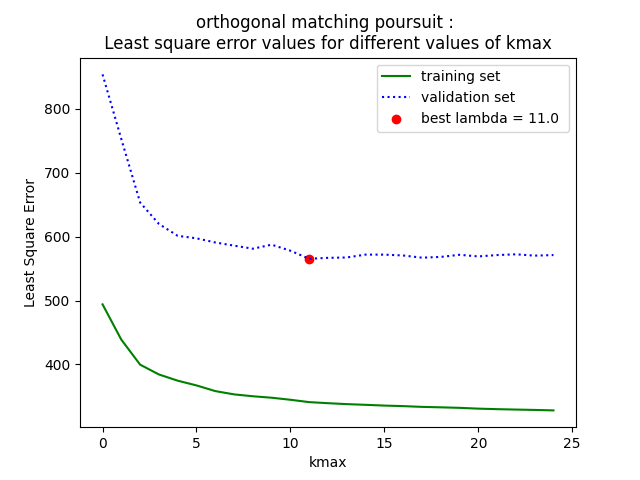
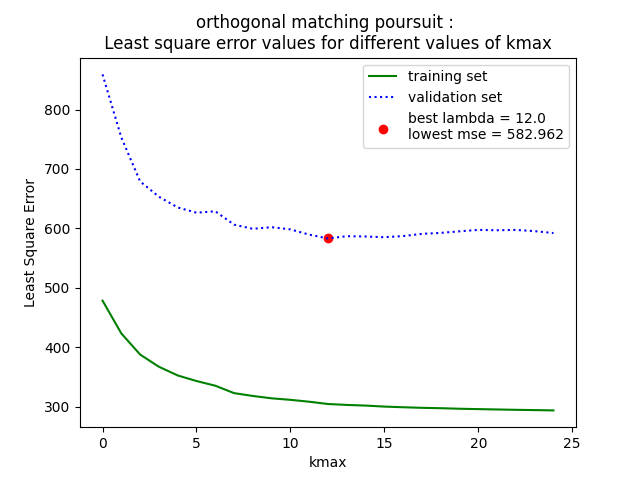
refactoring 5

diff --git a/plot_exp_training_size.py b/plot_exp_training_size.py
@@ -16,9 +16,8 @@ from exp_hyperparam import learn_all_with_MP
 from exp_hyperparam import learn_all_with_OMP
 
 
-# Load performance data
+# Load algo performances' data
 npz_ = np.load("exp_training_size_results.npz")
-print(npz_)
 N = npz_["N"]
 train_error_mx = npz_["train_error_mx"]
 valid_error_mx = npz_["valid_error_mx"]
@@ -32,20 +31,23 @@ fig1 = plt.figure()
 ax1 = plt.axes()
 for i in range(len(methods_name)):
     ax1.loglog(N, valid_error_mx[:, i], color=colors[i],
-            linestyle="-", label=methods_name[i])
+            linestyle="-", label=f"{methods_name[i]} (valid)")
     if methods_name[i] == "least squares":
+        # trick to see the dashed line on the x axis when low N
         train_error_mx[:, i] = np.round(train_error_mx[:, i], 0) + 1
     ax1.margins(x=0, y=0)
     ax1.set_yticks(np.arange(11) - 1)
     ax1.loglog(N, train_error_mx[:, i], color=colors[i],
-        linestyle="dotted", label=methods_name[i])
+        linestyle="dotted", label=f"{methods_name[i]} (train)")
 
 ax1.set_xlabel("Sample size (N)")
-ax1.set_ylabel("Error (MSE)")
+ax1.set_ylabel("Loss function (MSE)")
 ax1.set_title("Performance of different linear regression algorithms"
-             + "\n depending on the sample size of the data set")
+              + "\n when fiting the training set and the validation set"
+              + "\n according to the sample size")
 ax1.legend(loc = "upper right")
-plt.savefig("figures/plot_exp_training_size_mse.png")
+plt.tight_layout()
+plt.savefig("figures/plot_exp_training_and_validation_size_mse.png")
 
 # time spent by each algo to fit train set depending on the dataset size
 fig2 = plt.figure()
@@ -57,15 +59,14 @@ for i in range(len(methods_name)):
 ax2.set_xlabel("Sample size (N)")
 ax2.set_ylabel("Time (s)")
 ax2.set_title("Time spent by each linear regression algorithm"
-             + "to fit the training data set"
-             + "\n depending on the sample size of the data set")
+             + " to fit the training data set"
+             + "\n according to the sample size")
 ax2.legend(loc = "upper right")
-plt.savefig("figures/plot_exp_training_size_time.png")
+plt.savefig("figures/plot_exp_training_and_validation_size_time.png")
 
 
 # 10.
-# afficher les performance de prediction de tous les algorithms
-# en fonction de la taille du training set
+# display performances of all algorithms according to sample size
 
 # load data
 X_labeled, y_labeled, X_unlabeled = load_data(
@@ -78,7 +79,7 @@ X_train_X_valid1, y_train_y_valid1, X_valid2, y_valid2 = split_data(
 N = np.array([2**i for i in np.arange(6,11+1)])
 
 # Iteration
-error_mx = np.zeros((len(N), 6))
+error_mx = np.zeros((len(N), 7))
 for i,n in enumerate(N):
     # reduce size of S_train depending on N
     S_train_X, S_train_y = X_train_X_valid1[0:n, :], y_train_y_valid1[0:n]
@@ -87,54 +88,59 @@ for i,n in enumerate(N):
     ridge = learn_all_with_RIDGE(S_train_X, S_train_y)
     ridge.fit(S_train_X, S_train_y)
     y_hat_ridge = ridge.predict(X_valid2)
-    lse_ridge = np.linalg.norm(y_hat_ridge - y_valid2, ord=2)
+    mse_ridge = np.mean(np.square(y_hat_ridge - y_valid2))
     
     # Matching Poursuit
     mp = learn_all_with_MP(S_train_X, S_train_y)
     mp.fit(S_train_X, S_train_y)
     y_hat_mp = mp.predict(X_valid2)
-    lse_mp = np.linalg.norm(y_hat_mp - y_valid2, ord=2)
+    mse_mp = np.mean(np.square(y_hat_mp - y_valid2))
     
     # Orthogonal Matching Poursuit
     omp = learn_all_with_OMP(S_train_X, S_train_y)
     omp.fit(S_train_X, S_train_y)
     y_hat_omp = omp.predict(X_valid2)
-    lse_omp = np.linalg.norm(y_hat_omp - y_valid2, ord=2)
+    mse_omp = np.mean(np.square(y_hat_omp - y_valid2))
     
     # Linear Regression Majority 
     maj = LinearRegressionMajority()
     maj.fit(S_train_X, S_train_y)
     y_hat_maj = maj.predict(X_valid2)
-    lse_maj = np.linalg.norm(y_hat_maj - y_valid2, ord=2)
+    mse_maj = np.mean(np.square(y_hat_maj - y_valid2))
 
     # Linear Regression Mean
     mean_ = LinearRegressionMean()
     mean_.fit(S_train_X, S_train_y)
     y_hat_mean = mean_.predict(X_valid2)
-    lse_mean = np.linalg.norm(y_hat_mean - y_valid2, ord=2)
+    mse_mean = np.mean(np.square(y_hat_mean - y_valid2))
 
     # Linear Regression Median
     median_ = LinearRegressionMedian()
     median_.fit(S_train_X, S_train_y)
     y_hat_median = median_.predict(X_valid2)
-    lse_median = np.linalg.norm(y_hat_median - y_valid2, ord=2)
+    mse_median = np.mean(np.square(y_hat_median - y_valid2))
+
+    # Linear Regression Least Squares 
+    ls = LinearRegressionLeastSquares()
+    ls.fit(S_train_X, S_train_y)
+    y_hat_ls = ls.predict(X_valid2)
+    mse_ls = np.mean(np.square(y_hat_ls - y_valid2))
 
     # save results
-    error_mx[i, :] = [lse_ridge, lse_mp, lse_omp,
-                      lse_maj, lse_mean, lse_median]
-
-print(np.round(error_mx, 0))
+    error_mx[i, :] = [mse_ridge, mse_mp, mse_omp, mse_maj,
+                      mse_mean, mse_median, mse_ls]
 
 fig = plt.figure()
 ax = plt.axes()
-method = ["ridge", "mp", "omp", "maj", "mean", "median"]
-colors = ["b", "g", "r", "c", "m", "k"]
+method = ["ridge", "mp", "omp", "maj", "mean", "median", "ls"]
+colors = ["b", "g", "r", "c", "m", "k", "y"]
 for i in range(len(method)):
-    ax.plot(N, error_mx[:, i], color=colors[i], linestyle="-", label=method[i])
+    ax.loglog(N, error_mx[:, i], color=colors[i], linestyle="-", label=method[i])
 plt.legend(loc="upper right")
-plt.xlabel("sample size (N)")
-plt.ylabel("Least Square Error")
-plt.title("Performace of algorithms \n depending on the sample size")
+plt.xlabel("Sample size (N)")
+plt.ylabel("Loss function (MSE)")
+plt.title("Performace of algorithms when predicting the valid2 set"
+          + "\n depending on the sample size")
 plt.axvline(500, color = 'r', linestyle = ':', label="N=500")    
 plt.savefig("figures/plot_exp_training_size.png")
 
@@ -142,8 +148,10 @@ plt.savefig("figures/plot_exp_training_size.png")
 # Part 10.2
 
 
-def learn_best_predictor_and_predict_test_data(X, y, learn_all_with_ALGO, X_unlabeled):
-    """Learn the best model and predict the test data
+def learn_best_predictor_and_predict_test_data(
+    X, y, learn_all_with_ALGO, X_unlabeled, file_path):
+    """Learn the best model and predict the unlabeled test data.
+    The result is automatically saved as an .npy file
     
     -------
     Parameters
@@ -156,9 +164,12 @@ def learn_best_predictor_and_predict_test_data(X, y, learn_all_with_ALGO, X_unla
         the chosen algorithm
     X_unlabeled: nd.array[n2, d2]
         Unlabeled data set that want to labelise
+    file_path: str
+        File name, path and file format in a unique str.
     -------
     Returns
-    
+    .npy: file
+        Results of algorithms performances saved into a .npy file.
     """
     
     # partitionne les donnes etiquetes en train (n=500) et valid2
@@ -173,20 +184,18 @@ def learn_best_predictor_and_predict_test_data(X, y, learn_all_with_ALGO, X_unla
     w_hat = algo.w
     b_hat = algo.b
     y_hat = algo.predict(X_valid2)
-    lse_valid2 = np.linalg.norm(y_hat - y_valid2, ord=2)
+    mse_valid2 = np.mean(np.square(y_hat - y_valid2))
     print("\n algorithm performances on sample validation 2 \n" +
           f"\n w = {w_hat} \n b = {b_hat} \n"
-          + f"Least Square Error on valid2 set = {lse_valid2} \n")
-    acc = np.mean(np.round(y_hat, 0) == np.round(y_valid2, 0))
-    print(f"Accuracy on valid2 set = {acc}")
-    
+          + f"Loss Function (MSE) valid2 set = {mse_valid2} \n")
+
     # unlabeled data
     y_test = algo.predict(X_unlabeled)
-    np.save("test_prediction_results.npy", y_test)
-    print(f"\n y_test = {y_test} \n")
+    np.save(file_path, y_test)
 
 # test
 learn_best_predictor_and_predict_test_data(
     X=X_labeled, y=y_labeled,
     learn_all_with_ALGO=learn_all_with_RIDGE,
-    X_unlabeled=X_unlabeled)
+    X_unlabeled=X_unlabeled,
+    file_path="test_prediction_results.npy")

diff --git a/exp_hyperparam.py b/exp_hyperparam.py
@@ -5,6 +5,7 @@
 
 import numpy as np
 import matplotlib.pyplot as plt
+
 from data_utils import load_data, randomize_data, split_data
 from linear_regression import(LinearRegressionRidge,
                               LinearRegressionMp,
@@ -122,8 +123,9 @@ def hyper_plot(hypers, hyper_name, method,
             linestyle=":", color="blue")
     ax.scatter(results[np.argmin(results[:, 2]), 0],
                np.min(results[:, 2]), color="red",
-               label="best lambda = {} ".format(
-                   round(results[np.argmin(results[:, 2]), 0], 3)))
+               label="best lambda = {}\nlowest mse = {}"
+               .format(round(results[np.argmin(results[:, 2]), 0], 3),
+                       round(min(results[:, 2]), 3)))
     plt.xlabel("{}".format(hyper_name))
     plt.ylabel("Least Square Error")
     plt.legend(loc="upper right")
@@ -220,7 +222,7 @@ X_valid2, y_valid2 = X_valid, y_valid  # not provided to th learn_ fct
 ridge = learn_all_with_RIDGE(X_train, y_train)
 ridge.fit(X_train, y_train) 
 y_hat_ridge = ridge.predict(X_valid2)
-print("\n Ridge LSE: with the best kmax\n",
+print("\n Ridge regression best kmax\n",
       round(np.linalg.norm(y_hat_ridge - y_valid2, ord=2), 2))
 
 
@@ -274,7 +276,7 @@ X_valid2, y_valid2 = X_valid, y_valid
 mp = learn_all_with_MP(X_train, y_train)
 mp.fit(X_train, y_train) 
 y_hat_mp = mp.predict(X_valid2)
-print("\n Matching Poursuit LSE with the best kmax: \n",
+print("\n Matching Poursuit best kmax: \n",
       round(np.linalg.norm(y_hat_mp - y_valid2, ord=2), 2))
 
 
@@ -328,5 +330,5 @@ X_valid2, y_valid2 = X_valid, y_valid
 omp = learn_all_with_OMP(X_train, y_train)
 omp.fit(X_train, y_train) 
 y_hat_omp = omp.predict(X_valid2)
-print("\n Orthogonal Matching Poursuit LSE with the best kmax: \n",
+print("\n Orthogonal Matching Poursuit best kmax: \n",
       round(np.linalg.norm(y_hat_omp - y_valid2, ord=2), 2))

diff --git a/exp_training_size.py b/exp_training_size.py
@@ -63,13 +63,13 @@ def algo_perf_dep_on_dataset_size(X_train, y_train,
         algo.fit(X_train_temp, y_train_temp)
         t1 = time()
         
-        # prediction error on validation set
+        # prediction error (mse) on validation set
         yhat_valid = algo.predict(X_valid)
-        valid_error[i] = np.mean(np.square(yhat_valid - y_valid)) ** 2
+        valid_error[i] = np.mean(np.square(yhat_valid - y_valid))
         
-        # prediction error on training set
+        # prediction error (mse) on training set
         yhat_train = algo.predict(X_train_temp)
-        train_error[i] = np.mean(np.square(yhat_train - y_train_temp)) ** 2
+        train_error[i] = np.mean(np.square(yhat_train - y_train_temp))
 
         # learning time
         learning_time[i] = t1 - t0
@@ -112,8 +112,3 @@ np.savez("exp_training_size_results.npz",
     train_error_mx=train_error_mx,
     valid_error_mx=valid_error_mx,
     learning_time_mx=learning_time_mx)
-
-print("\n valid error: \n ", valid_error_mx)
-print("\n train error: \n ", train_error_mx)
-print("\n N vector: \n", N)
-print("\n learning_time: \n", learning_time_mx)

diff --git a/exp_visualization.py b/exp_visualization.py
@@ -12,11 +12,22 @@ _, y_labeled, _ = load_data("data/YearPredictionMSD_100.npz")
 
 fig = plt.figure()
 ax = plt.axes()
-plt.hist(y_labeled,
-         bins=np.arange(int(min(y_labeled)), int(max(y_labeled)), 1))
+plt.hist(y_labeled, bins=np.arange((int(min(y_labeled))),
+                                    int(max(y_labeled))+1, 1))
 plt.style.context("seaborn")
 plt.xlabel("Release year")
 plt.ylabel("Number of songs")
 plt.title("Histogram of the number of songs per release year"
           + "\n from the MSD_100 dataset")
 plt.savefig("figures/hist_year.png")
+
+# more info on data set
+print("number of songs in the training set:\n", len(y_labeled))
+
+print("average number of songs released in or after 1950"
+      + "in X_labeled (training set) \n",
+      np.round(np.sum(y_labeled>=1950) / (max(y_labeled)-1949), 2))
+
+print("average number of songs released before 1950"
+      + "in X_labeled (training set) \n",
+      np.round(np.sum(y_labeled<1950) / (max(y_labeled)-1949), 2))
